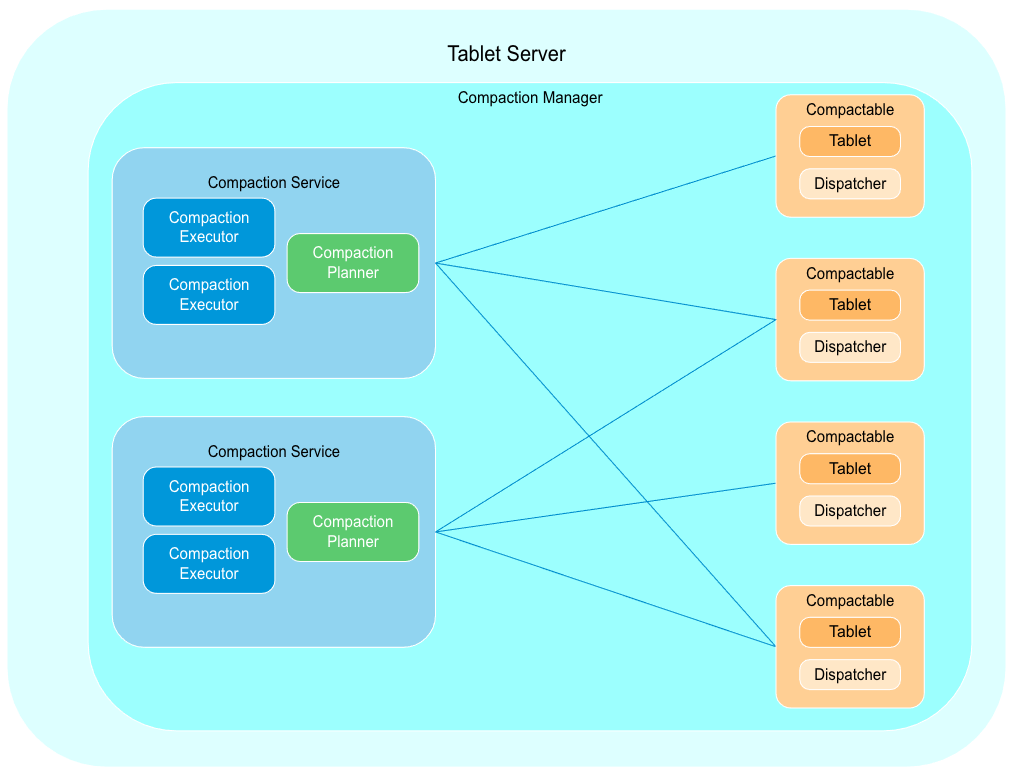
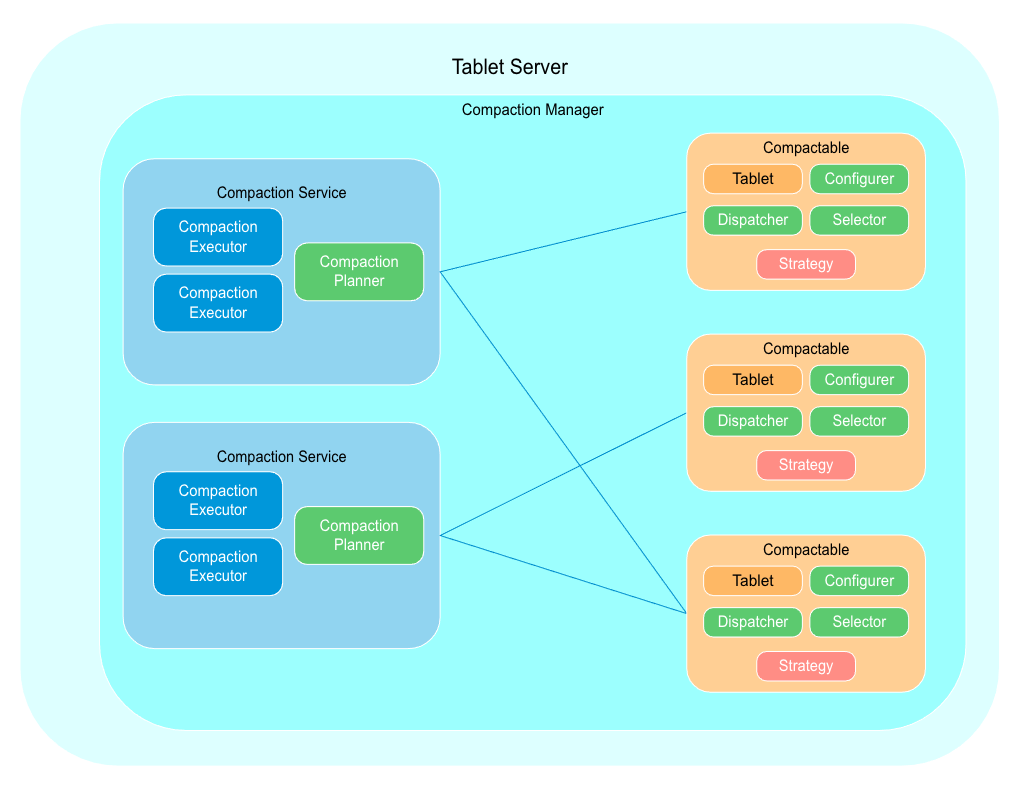
WIP

diff --git a/core/src/main/java/org/apache/accumulo/core/spi/compaction/package-info.java b/core/src/main/java/org/apache/accumulo/core/spi/compaction/package-info.java
@@ -18,8 +18,9 @@
  */
 /**
  * This package provides a place for plugin interfaces related to executing compactions. The diagram
- * below show the functional components in Accumulo related compactions. Not all of these components
- * are pluggable, but understanding how everything fits together is important for writing a plugin.
+ * below shows the functional components in Accumulo related to compactions. Not all of these
+ * components are pluggable, but understanding how everything fits together is important for writing
+ * a plugin.
  *
  * <p>
  * <img src="doc-files/compaction-spi-design.png"/>
@@ -28,23 +29,41 @@
  * The following is a desciption of each functional component.
  *
  * <ul>
- * <li><b>Compaction Manager</b> A non pluggable component within the tablet server that manages
- * compactions and brings all other components together. It routes compactables to compaction
- * services.
- * <li><b>Compaction Service</b> A non pluggable component within a Compaction Manager that compacts
- * tablets. One or more of these are created based on user configuration. Users can assign a table
- * to a compaction service. Has a single compaction planner and one ore more compaction executors.
+ * <li><b>Compaction Manager</b> A non pluggable component within the tablet server that brings all
+ * other components together.
+ * <ul>
+ * <li><b>Compaction Service</b> A non pluggable component that compacts tablets. One or more of
+ * these are created based on user configuration. Users can assign a table to a compaction service.
+ * Has a single compaction planner and one ore more compaction executors.
+ * <ul>
  * <li><b>Compaction Planner</b> A pluggable component that can be configured by users when they
  * configure a compaction service. It makes decisions about which files to compact on which
  * executors. See {@link org.apache.accumulo.core.spi.compaction.CompactionPlanner}
- * <li><b>Compaction Executor</b> A non pluggable component that executes compactions and has a
- * priority queue.
- * <li><b>Compaction Dispatcher</b> A pluggable component that decides which compaction service a
- * table should use for different kinds of compactions. This is configurable by users per table. See
- * {@link org.apache.accumulo.core.spi.compaction.CompactionDispatcher}
- * <li><b>Compactable</b> A non pluggable component that wraps a Tablet and a compaction dispatcher.
- * It tracks all information about one or more running compactions that is needed by a compaction
- * service.
+ * <li><b>Compaction Executor</b> A non pluggable component that executes compactions using multiple
+ * threads and has a priority queue.</li>
+ * </ul>
+ * </li>
+ * <li><b>Compactable</b> A non pluggable component that wraps a Tablet and per table pluggable
+ * compaction components. It tracks all information about one or more running compactions that is
+ * needed by a compaction service in a thread safe manor.
+ * <ul>
+ * <li><b>Compaction Dispatcher</b> A pluggable component component that decides which compaction
+ * service a table should use for different kinds of compactions. This is configurable by users per
+ * table. See {@link org.apache.accumulo.core.spi.compaction.CompactionDispatcher}</li>
+ * <li><b>Compaction Selector</b> A pluggable component that can optionally be configured per table
+ * to periodically select files to compact. This support use cases like periodically compacting all
+ * files because there are too many deletes. See
+ * {@link org.apache.accumulo.core.client.admin.compaction.CompactionSelector}</li>
+ * <li><b>Compaction Configurer</b> A pluggable component that can optionally be configured per
+ * table to dynamically configure file output settings. This support use cases like user snappy for
+ * small files and gzip for large files. See
+ * {@link org.apache.accumulo.core.client.admin.compaction.CompactionConfigurer}</li>
+ * <li><b>Compaction Strategy</b> A deprecated pluggable component replaced by the Selector and
+ * Configurer. If configured it will be used.
+ * </ul>
+ * </li>
+ * </ul>
+ * </li>
  * </ul>
  *
  *
